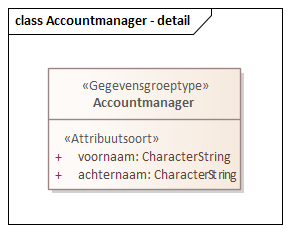
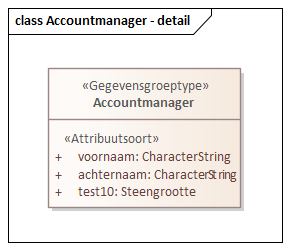
MIMCM-Bakstenenconceptueelmodel-1.0.0-2-20130318-20261017-173205

diff --git a/data/SAMPLE-cat.respec.full.html b/data/SAMPLE-cat.respec.full.html
@@ -17,7 +17,7 @@
                             Status van dit document ...HIER INVOEGEN
                         </p></section><section id="prologue" class="informative" level="1"><h1>Proloog</h1><p>
                             Introductie ...HIER INVOEGEN
-                        </p></section><section id="cat" class="normative"><h2>Gegevensdefinitie</h2><!--MIMCM-Bakstenenconceptueelmodel-1.0.0-2-20130318-20261017-172123 imvertor Nightly-build.0--><section id="global_packages"><h3>Model   Bakstenen conceptueel model</h3><section id="EAID_08513AA0_8A50_46c1_AD86_9B80D9A6AAE1"><h4>   Model 3 - overzicht</h4><div class="imageinfo overview"><figure class="uml-diagram"><img id="img-EAID_08513AA0_8A50_46c1_AD86_9B80D9A6AAE1" src="data/Images/EAID_08513AA0_8A50_46c1_AD86_9B80D9A6AAE1.png" usemap="#imagemap-EAID_08513AA0_8A50_46c1_AD86_9B80D9A6AAE1" alt="Diagram: Uitleg van dit diagram &#34;Model 3&#34;."><figcaption> ‒ Diagram: Model 3</figcaption></figure><map name="imagemap-EAID_08513AA0_8A50_46c1_AD86_9B80D9A6AAE1"><area shape="rect" alt="Accountmanager" coords="1101,395,1307,535" href="#global_class_Contract_Accountmanager"><area shape="rect" alt="ExterneProducent" coords="540,368,725,436" href="#global_class_Baksteenproductie_ExterneProducent"><area shape="rect" alt="Baksteen" coords="48,94,326,313" href="#global_class_Baksteenproductie_Baksteen"><area shape="rect" alt="Producent" coords="540,108,725,306" href="#global_class_Baksteenproductie_Producent"><area shape="rect" alt="Deal" coords="1088,94,1300,189" href="#global_class_Contract_Deal"><area shape="rect" alt="Contract" coords="1348,259,1532,341" href="#global_class_Contract_Contract"><area shape="rect" alt="Client" coords="828,231,1070,327" href="#global_class_Contract_Client"></map><p>
+                        </p></section><section id="cat" class="normative"><h2>Gegevensdefinitie</h2><!--MIMCM-Bakstenenconceptueelmodel-1.0.0-2-20130318-20261017-173205 imvertor Nightly-build.0--><section id="global_packages"><h3>Model   Bakstenen conceptueel model</h3><section id="EAID_08513AA0_8A50_46c1_AD86_9B80D9A6AAE1"><h4>   Model 3 - overzicht</h4><div class="imageinfo overview"><figure class="uml-diagram"><img id="img-EAID_08513AA0_8A50_46c1_AD86_9B80D9A6AAE1" src="data/Images/EAID_08513AA0_8A50_46c1_AD86_9B80D9A6AAE1.png" usemap="#imagemap-EAID_08513AA0_8A50_46c1_AD86_9B80D9A6AAE1" alt="Diagram: Uitleg van dit diagram &#34;Model 3&#34;."><figcaption> ‒ Diagram: Model 3</figcaption></figure><map name="imagemap-EAID_08513AA0_8A50_46c1_AD86_9B80D9A6AAE1"><area shape="rect" alt="Accountmanager" coords="1101,395,1307,535" href="#global_class_Contract_Accountmanager"><area shape="rect" alt="ExterneProducent" coords="540,368,725,436" href="#global_class_Baksteenproductie_ExterneProducent"><area shape="rect" alt="Baksteen" coords="48,94,326,313" href="#global_class_Baksteenproductie_Baksteen"><area shape="rect" alt="Producent" coords="540,108,725,306" href="#global_class_Baksteenproductie_Producent"><area shape="rect" alt="Deal" coords="1088,94,1300,189" href="#global_class_Contract_Deal"><area shape="rect" alt="Contract" coords="1348,259,1532,341" href="#global_class_Contract_Contract"><area shape="rect" alt="Client" coords="828,231,1070,327" href="#global_class_Contract_Client"></map><p>
                         <p>Uitleg van dit diagram "<i>Model 3</i>".</p>
                         <p></p>
                         <p></p>
@@ -73,7 +73,7 @@
                         </td></tr></tbody></table>
                
                <h6>Overzicht constraints  </h6>
-                  <table style="width: 100%;"><colgroup style="width: 30%;"></colgroup><colgroup style="width: 70%;"></colgroup><tbody><tr><th scope="col">Naam</th><th scope="col">Uitleg</th></tr><tr><th scope="row"><a class="link" href="#detail_d22351e2583">
+                  <table style="width: 100%;"><colgroup style="width: 30%;"></colgroup><colgroup style="width: 70%;"></colgroup><tbody><tr><th scope="col">Naam</th><th scope="col">Uitleg</th></tr><tr><th scope="row"><a class="link" href="#detail_d22785e2583">
                               baksteen-constraint
                            </a></th><td></td></tr></tbody></table>
                
@@ -280,7 +280,7 @@
                                     <p>De eerste producent is de maker die als eerste met de baksteen op de markt is gekomen, en de steen nog levert.</p>
                                  </td></tr><tr><th scope="row">Herkomst definitie</th><td> </td></tr><tr><th scope="row">Datum opname</th><td> </td></tr><tr><th scope="row">Gerelateerd objecttype</th><td><a class="link" href="#global_class_Baksteenproductie_Producent">Producent</a></td></tr><tr><th scope="row">Kardinaliteit</th><td>0 .. *</td></tr><tr><th scope="row">Indicatie kardinaliteit bron</th><td>1</td></tr><tr><th scope="row">Indicatie authentiek</th><td>  </td></tr><tr><th scope="row">Mogelijk geen waarde</th><td>Nee</td></tr></tbody></table>
                   </div>
-                  <div class="deepheader" id="detail_d22351e2583"><strong>Constraint details  <a href="#global_class_Baksteenproductie_Baksteen">Baksteen</a> baksteen-constraint</strong>
+                  <div class="deepheader" id="detail_d22785e2583"><strong>Constraint details  <a href="#global_class_Baksteenproductie_Baksteen">Baksteen</a> baksteen-constraint</strong>
                      <table style="width: 100%;"><colgroup style="width: 30%;"></colgroup><colgroup style="width: 70%;"></colgroup><tbody><tr><th scope="row">OCL</th><td>Constraint op objecttype Baksteen.</td></tr></tbody></table>
                   </div>
                </section>
@@ -372,7 +372,7 @@
                            <p>Identificatie van de client.</p>
                         </td><td>CHARACTERSTRING</td><td>1</td></tr><tr><td>contactIntern:</td><td>
                            <p>Interne persoon die betreffende client vertegenwoordigt.</p>
-                        </td><td><a class="link" href="#detail_class_Contract_Accountmanager">Accountmanager</a></td><td>1 .. *</td></tr><tr><td>- <a class="link" href="#detail_attribute_Contract_Accountmanager_voornaam">voornaam</a></td><td></td><td>CHARACTERSTRING</td><td>1</td></tr><tr><td>- <a class="link" href="#detail_attribute_Contract_Accountmanager_achternaam">achternaam</a></td><td></td><td>CHARACTERSTRING</td><td>1</td></tr><tr><td>- <a class="link" href="#detail_association_Contract_Accountmanager_adres2rol">adres2relatie</a></td><td></td><td><a class="link" href="#global_class_Contract_Adres">Adres</a></td><td>1</td></tr></tbody></table>
+                        </td><td><a class="link" href="#detail_class_Contract_Accountmanager">Accountmanager</a></td><td>1 .. *</td></tr><tr><td>- <a class="link" href="#detail_attribute_Contract_Accountmanager_voornaam">voornaam</a></td><td></td><td>CHARACTERSTRING</td><td>1</td></tr><tr><td>- <a class="link" href="#detail_attribute_Contract_Accountmanager_achternaam">achternaam</a></td><td></td><td>CHARACTERSTRING</td><td>1</td></tr><tr><td>- <a class="link" href="#detail_attribute_Contract_Accountmanager_test10">test10</a></td><td></td><td><a class="link" href="#global_class_Baksteenproductie_Steengrootte">Steengrootte</a></td><td>1</td></tr><tr><td>- <a class="link" href="#detail_association_Contract_Accountmanager_adres2rol">adres2relatie</a></td><td></td><td><a class="link" href="#global_class_Contract_Adres">Adres</a></td><td>1</td></tr></tbody></table>
                
                <h6>Overzicht relaties  </h6>
                   
@@ -393,7 +393,7 @@
                   <table style="width: 100%;"><colgroup style="width: 50%;"></colgroup><colgroup style="width: 50%;"></colgroup><tbody><tr><th scope="col">Rol naam met kardinaliteiten</th><th scope="col">Definitie</th></tr><tr><td>Contract [ 1 ] <a class="link" href="#detail_association_Contract_Contract_adres2rol">adres1relatie: adres2rol</a> <a class="link" href="#global_class_Contract_Adres">Adres</a> [ 1 ]</td><td></td></tr></tbody></table>
                
                <h6>Overzicht constraints  </h6>
-                  <table style="width: 100%;"><colgroup style="width: 30%;"></colgroup><colgroup style="width: 70%;"></colgroup><tbody><tr><th scope="col">Naam</th><th scope="col">Uitleg</th></tr><tr><th scope="row"><a class="link" href="#detail_d22351e6543">
+                  <table style="width: 100%;"><colgroup style="width: 30%;"></colgroup><colgroup style="width: 70%;"></colgroup><tbody><tr><th scope="col">Naam</th><th scope="col">Uitleg</th></tr><tr><th scope="row"><a class="link" href="#detail_d22785e6658">
                               constraint1
                            </a></th><td> commentaar </td></tr></tbody></table>
                
@@ -423,14 +423,14 @@
                         </td><td>DAY</td><td>1</td></tr></tbody></table>
                
                <h6>Overzicht constraints  </h6>
-                  <table style="width: 100%;"><colgroup style="width: 30%;"></colgroup><colgroup style="width: 70%;"></colgroup><tbody><tr><th scope="col">Naam</th><th scope="col">Uitleg</th></tr><tr><th scope="row"><a class="link" href="#detail_d22351e7087">
+                  <table style="width: 100%;"><colgroup style="width: 30%;"></colgroup><colgroup style="width: 70%;"></colgroup><tbody><tr><th scope="col">Naam</th><th scope="col">Uitleg</th></tr><tr><th scope="row"><a class="link" href="#detail_d22785e7202">
                               constraint-relatieklasse
                            </a></th><td></td></tr></tbody></table>
                
             </section>
          </section><section><h4>Gegevensgroeptypen   </h4>
             <section id="global_class_Contract_Accountmanager"><h5>Gegevensgroep   Accountmanager</h5>
-               <section id="EAID_3461FD3C_569C_42de_986E_D0665C7B8650"><h6>   Accountmanager - detail</h6><div class="imageinfo "><figure class="uml-diagram"><img id="img-EAID_3461FD3C_569C_42de_986E_D0665C7B8650" src="data/Images/EAID_3461FD3C_569C_42de_986E_D0665C7B8650.png" usemap="#imagemap-EAID_3461FD3C_569C_42de_986E_D0665C7B8650" alt="Diagram: Weergave van Accountmanager. Test voor één diacriet."><figcaption> ‒ Diagram: Accountmanager</figcaption></figure><map name="imagemap-EAID_3461FD3C_569C_42de_986E_D0665C7B8650"><area shape="rect" alt="Accountmanager" coords="48,68,241,190" href="#global_class_Contract_Accountmanager"></map><p>
+               <section id="EAID_3461FD3C_569C_42de_986E_D0665C7B8650"><h6>   Accountmanager - detail</h6><div class="imageinfo "><figure class="uml-diagram"><img id="img-EAID_3461FD3C_569C_42de_986E_D0665C7B8650" src="data/Images/EAID_3461FD3C_569C_42de_986E_D0665C7B8650.png" usemap="#imagemap-EAID_3461FD3C_569C_42de_986E_D0665C7B8650" alt="Diagram: Weergave van Accountmanager. Test voor één diacriet."><figcaption> ‒ Diagram: Accountmanager</figcaption></figure><map name="imagemap-EAID_3461FD3C_569C_42de_986E_D0665C7B8650"><area shape="rect" alt="Accountmanager" coords="48,68,241,208" href="#global_class_Contract_Accountmanager"></map><p>
                               <p>Weergave van Accountmanager. Test voor één diacriet.</p>
                               <p></p>
                            </p></div></section>
@@ -442,14 +442,14 @@
                               <p>Dit is de toelichting voor accountmanager.</p>
                            </td></tr></tbody></table>
                <h6>Overzicht attributen  </h6>
-                  <table style="width: 100%;"><colgroup style="width: 30%;"></colgroup><colgroup style="width: 50%;"></colgroup><colgroup style="width: 10%;"></colgroup><colgroup style="width: 10%;"></colgroup><tbody><tr><th scope="col">Attribuutnaam</th><th scope="col">Definitie</th><th scope="col">Formaat</th><th scope="col">Card</th></tr><tr><td><a class="link" href="#detail_attribute_Contract_Accountmanager_voornaam">voornaam</a></td><td></td><td>CHARACTERSTRING</td><td>1</td></tr><tr><td><a class="link" href="#detail_attribute_Contract_Accountmanager_achternaam">achternaam</a></td><td></td><td>CHARACTERSTRING</td><td>1</td></tr></tbody></table>
+                  <table style="width: 100%;"><colgroup style="width: 30%;"></colgroup><colgroup style="width: 50%;"></colgroup><colgroup style="width: 10%;"></colgroup><colgroup style="width: 10%;"></colgroup><tbody><tr><th scope="col">Attribuutnaam</th><th scope="col">Definitie</th><th scope="col">Formaat</th><th scope="col">Card</th></tr><tr><td><a class="link" href="#detail_attribute_Contract_Accountmanager_voornaam">voornaam</a></td><td></td><td>CHARACTERSTRING</td><td>1</td></tr><tr><td><a class="link" href="#detail_attribute_Contract_Accountmanager_achternaam">achternaam</a></td><td></td><td>CHARACTERSTRING</td><td>1</td></tr><tr><td><a class="link" href="#detail_attribute_Contract_Accountmanager_test10">test10</a></td><td></td><td><a class="link" href="#detail_class_Baksteenproductie_Steengrootte">Steengrootte</a></td><td>1</td></tr></tbody></table>
                
                <h6>Overzicht relaties  </h6>
                   
                   <table style="width: 100%;"><colgroup style="width: 50%;"></colgroup><colgroup style="width: 50%;"></colgroup><tbody><tr><th scope="col">Rol naam met kardinaliteiten</th><th scope="col">Definitie</th></tr><tr><td>Accountmanager [ 1 ] <a class="link" href="#detail_association_Contract_Accountmanager_adres2rol">adres2relatie: adres2rol</a> <a class="link" href="#global_class_Contract_Adres">Adres</a> [ 1 ]</td><td></td></tr></tbody></table>
                
                <h6>Overzicht constraints  </h6>
-                  <table style="width: 100%;"><colgroup style="width: 30%;"></colgroup><colgroup style="width: 70%;"></colgroup><tbody><tr><th scope="col">Naam</th><th scope="col">Uitleg</th></tr><tr><th scope="row"><a class="link" href="#detail_d22351e5644">
+                  <table style="width: 100%;"><colgroup style="width: 30%;"></colgroup><colgroup style="width: 70%;"></colgroup><tbody><tr><th scope="col">Naam</th><th scope="col">Uitleg</th></tr><tr><th scope="row"><a class="link" href="#detail_d22785e5759">
                               Gegevensgroeptype-constraint
                            </a></th><td></td></tr></tbody></table>
                
@@ -477,7 +477,7 @@
                      
                      <table style="width: 100%;"><colgroup style="width: 30%;"></colgroup><colgroup style="width: 70%;"></colgroup><tbody><tr><th scope="row">Naam</th><td>adres1relatie</td></tr><tr><th scope="row">Herkomst</th><td> </td></tr><tr><th scope="row">Definitie</th><td> </td></tr><tr><th scope="row">Herkomst definitie</th><td> </td></tr><tr><th scope="row">Datum opname</th><td> </td></tr><tr><th scope="row">Gerelateerd objecttype</th><td><a class="link" href="#global_class_Contract_Adres">Adres</a></td></tr><tr><th scope="row">Kardinaliteit</th><td>1</td></tr><tr><th scope="row">Indicatie kardinaliteit bron</th><td>1</td></tr><tr><th scope="row">Indicatie authentiek</th><td>Authentiek</td></tr><tr><th scope="row">Mogelijk geen waarde</th><td>Nee</td></tr></tbody></table>
                   </div>
-                  <div class="deepheader" id="detail_d22351e6543"><strong>Constraint details  <a href="#global_class_Contract_Contract">Contract</a> constraint1</strong>
+                  <div class="deepheader" id="detail_d22785e6658"><strong>Constraint details  <a href="#global_class_Contract_Contract">Contract</a> constraint1</strong>
                      <table style="width: 100%;"><colgroup style="width: 30%;"></colgroup><colgroup style="width: 70%;"></colgroup><tbody><tr><th scope="row">Natuurlijke taal</th><td> commentaar </td></tr><tr><th scope="row">OCL</th><td> OCL of beschrijving van constraint1</td></tr></tbody></table>
                   </div>
                </section>
@@ -495,11 +495,14 @@
                   <div class="deepheader" id="detail_attribute_Contract_Accountmanager_achternaam"><strong>Attribuutsoort details  <a href="#global_class_Contract_Accountmanager">Accountmanager</a> achternaam</strong>
                      <table style="width: 100%;"><colgroup style="width: 30%;"></colgroup><colgroup style="width: 70%;"></colgroup><tbody><tr><th scope="row">Naam</th><td>achternaam</td></tr><tr><th scope="row">Alias</th><td>lastname</td></tr><tr><th scope="row">Herkomst</th><td> </td></tr><tr><th scope="row">Definitie</th><td> </td></tr><tr><th scope="row">Herkomst definitie</th><td> </td></tr><tr><th scope="row">Datum opname</th><td> </td></tr><tr><th scope="row">Formaat</th><td>CHARACTERSTRING</td></tr><tr><th scope="row">Kardinaliteit</th><td>1</td></tr><tr><th scope="row">Indicatie authentiek</th><td>  </td></tr><tr><th scope="row">Indicatie afleidbaar</th><td>Zie package</td></tr><tr><th scope="row">Indicatie classificerend</th><td> </td></tr><tr><th scope="row">Mogelijk geen waarde</th><td>Nee</td></tr><tr><th scope="row">Indicatie identificerend</th><td>Nee</td></tr></tbody></table>
                   </div>
+                  <div class="deepheader" id="detail_attribute_Contract_Accountmanager_test10"><strong>Attribuutsoort details  <a href="#global_class_Contract_Accountmanager">Accountmanager</a> test10</strong>
+                     <table style="width: 100%;"><colgroup style="width: 30%;"></colgroup><colgroup style="width: 70%;"></colgroup><tbody><tr><th scope="row">Naam</th><td>test10</td></tr><tr><th scope="row">Herkomst</th><td> </td></tr><tr><th scope="row">Definitie</th><td> </td></tr><tr><th scope="row">Herkomst definitie</th><td> </td></tr><tr><th scope="row">Datum opname</th><td> </td></tr><tr><th scope="row">Formaat</th><td><a class="link" href="#detail_class_Baksteenproductie_Steengrootte">Steengrootte</a></td></tr><tr><th scope="row">Kardinaliteit</th><td>1</td></tr><tr><th scope="row">Indicatie authentiek</th><td>Authentiek</td></tr><tr><th scope="row">Indicatie afleidbaar</th><td>Zie package</td></tr><tr><th scope="row">Indicatie classificerend</th><td>Nee</td></tr><tr><th scope="row">Mogelijk geen waarde</th><td>Nee</td></tr><tr><th scope="row">Indicatie identificerend</th><td>Nee</td></tr></tbody></table>
+                  </div>
                   <div class="deepheader" id="detail_association_Contract_Accountmanager_adres2rol"><strong>Relatierol details  <a href="#global_class_Contract_Accountmanager">Accountmanager</a> adres2relatie</strong>
                      
                      <table style="width: 100%;"><colgroup style="width: 30%;"></colgroup><colgroup style="width: 70%;"></colgroup><tbody><tr><th scope="row">Naam</th><td>adres2relatie</td></tr><tr><th scope="row">Herkomst</th><td> </td></tr><tr><th scope="row">Definitie</th><td> </td></tr><tr><th scope="row">Herkomst definitie</th><td> </td></tr><tr><th scope="row">Datum opname</th><td> </td></tr><tr><th scope="row">Gerelateerd objecttype</th><td><a class="link" href="#global_class_Contract_Adres">Adres</a></td></tr><tr><th scope="row">Kardinaliteit</th><td>1</td></tr><tr><th scope="row">Indicatie kardinaliteit bron</th><td>1</td></tr><tr><th scope="row">Indicatie authentiek</th><td>Authentiek</td></tr><tr><th scope="row">Mogelijk geen waarde</th><td>Nee</td></tr></tbody></table>
                   </div>
-                  <div class="deepheader" id="detail_d22351e5644"><strong>Constraint details  <a href="#global_class_Contract_Accountmanager">Accountmanager</a> Gegevensgroeptype-constraint</strong>
+                  <div class="deepheader" id="detail_d22785e5759"><strong>Constraint details  <a href="#global_class_Contract_Accountmanager">Accountmanager</a> Gegevensgroeptype-constraint</strong>
                      <table style="width: 100%;"><colgroup style="width: 30%;"></colgroup><colgroup style="width: 70%;"></colgroup><tbody><tr><th scope="row">OCL</th><td>Constraint op gegevesngroeptype Accountmanager.</td></tr></tbody></table>
                   </div>
                </section>
@@ -526,7 +529,7 @@
                                     <p>De eerstvolgende dag dat voor de client een feest is.</p>
                                  </td></tr><tr><th scope="row">Herkomst definitie</th><td> </td></tr><tr><th scope="row">Datum opname</th><td> </td></tr><tr><th scope="row">Formaat</th><td>DAY</td></tr><tr><th scope="row">Patroon</th><td>De verzameling van waarden die gegevens van deze attribuutsoort kunnen hebben (bereik)  danwel moeten voldoen aan een specifiek patroon.</td></tr><tr><th scope="row">Kardinaliteit</th><td>1</td></tr><tr><th scope="row">Indicatie authentiek</th><td>  </td></tr><tr><th scope="row">Toelichting</th><td>Een inhoudelijke toelichting op de attribuutsoort.</td></tr><tr><th scope="row">Indicatie afleidbaar</th><td>Zie package</td></tr><tr><th scope="row">Indicatie classificerend</th><td> </td></tr><tr><th scope="row">Mogelijk geen waarde</th><td>Nee</td></tr><tr><th scope="row">Indicatie identificerend</th><td>Nee</td></tr></tbody></table>
                   </div>
-                  <div class="deepheader" id="detail_d22351e7087"><strong>Constraint details  <a href="#global_class_Contract_Deal">Deal</a> constraint-relatieklasse</strong>
+                  <div class="deepheader" id="detail_d22785e7202"><strong>Constraint details  <a href="#global_class_Contract_Deal">Deal</a> constraint-relatieklasse</strong>
                      <table style="width: 100%;"><colgroup style="width: 30%;"></colgroup><colgroup style="width: 70%;"></colgroup><tbody><tr><th scope="row">OCL</th><td>Constraint op relatieklasse Deal.</td></tr></tbody></table>
                   </div>
                </section>
@@ -534,7 +537,7 @@
             
             
             
-         </section></section></section><section id="lis" class="normative"><h2>Inhoud van waardelijsten</h2><!--MIMCM-Bakstenenconceptueelmodel-1.0.0-2-20130318-20261017-172123 imvertor Nightly-build.0--><section><h3>Referentielijst inhoud   </h3><section id="detail_class_Baksteenproductie_Baksteentype"><h4>Referentielijst  Baksteentype</h4>
+         </section></section></section><section id="lis" class="normative"><h2>Inhoud van waardelijsten</h2><!--MIMCM-Bakstenenconceptueelmodel-1.0.0-2-20130318-20261017-173205 imvertor Nightly-build.0--><section><h3>Referentielijst inhoud   </h3><section id="detail_class_Baksteenproductie_Baksteentype"><h4>Referentielijst  Baksteentype</h4>
             <table style="width: 100%;" class="list"><colgroup></colgroup><tbody><tr><td>
                         <p>Type van baksteen.</p>
                       

diff --git a/data/SAMPLE-cat.respec.html b/data/SAMPLE-cat.respec.html
@@ -1,4 +1,4 @@
-<!DOCTYPE HTML><section id="cat" class="normative"><h2>Gegevensdefinitie</h2><!--MIMCM-Bakstenenconceptueelmodel-1.0.0-2-20130318-20261017-172123 imvertor Nightly-build.0--><section id="global_packages"><h3>Model   Bakstenen conceptueel model</h3><section id="EAID_08513AA0_8A50_46c1_AD86_9B80D9A6AAE1"><h4>   Model 3 - overzicht</h4><div class="imageinfo overview"><figure class="uml-diagram"><img id="img-EAID_08513AA0_8A50_46c1_AD86_9B80D9A6AAE1" src="data/Images/EAID_08513AA0_8A50_46c1_AD86_9B80D9A6AAE1.png" usemap="#imagemap-EAID_08513AA0_8A50_46c1_AD86_9B80D9A6AAE1" alt="Diagram: Uitleg van dit diagram &#34;Model 3&#34;."><figcaption> ‒ Diagram: Model 3</figcaption></figure><map name="imagemap-EAID_08513AA0_8A50_46c1_AD86_9B80D9A6AAE1"><area shape="rect" alt="Accountmanager" coords="1101,395,1307,535" href="#global_class_Contract_Accountmanager"><area shape="rect" alt="ExterneProducent" coords="540,368,725,436" href="#global_class_Baksteenproductie_ExterneProducent"><area shape="rect" alt="Baksteen" coords="48,94,326,313" href="#global_class_Baksteenproductie_Baksteen"><area shape="rect" alt="Producent" coords="540,108,725,306" href="#global_class_Baksteenproductie_Producent"><area shape="rect" alt="Deal" coords="1088,94,1300,189" href="#global_class_Contract_Deal"><area shape="rect" alt="Contract" coords="1348,259,1532,341" href="#global_class_Contract_Contract"><area shape="rect" alt="Client" coords="828,231,1070,327" href="#global_class_Contract_Client"></map><p>
+<!DOCTYPE HTML><section id="cat" class="normative"><h2>Gegevensdefinitie</h2><!--MIMCM-Bakstenenconceptueelmodel-1.0.0-2-20130318-20261017-173205 imvertor Nightly-build.0--><section id="global_packages"><h3>Model   Bakstenen conceptueel model</h3><section id="EAID_08513AA0_8A50_46c1_AD86_9B80D9A6AAE1"><h4>   Model 3 - overzicht</h4><div class="imageinfo overview"><figure class="uml-diagram"><img id="img-EAID_08513AA0_8A50_46c1_AD86_9B80D9A6AAE1" src="data/Images/EAID_08513AA0_8A50_46c1_AD86_9B80D9A6AAE1.png" usemap="#imagemap-EAID_08513AA0_8A50_46c1_AD86_9B80D9A6AAE1" alt="Diagram: Uitleg van dit diagram &#34;Model 3&#34;."><figcaption> ‒ Diagram: Model 3</figcaption></figure><map name="imagemap-EAID_08513AA0_8A50_46c1_AD86_9B80D9A6AAE1"><area shape="rect" alt="Accountmanager" coords="1101,395,1307,535" href="#global_class_Contract_Accountmanager"><area shape="rect" alt="ExterneProducent" coords="540,368,725,436" href="#global_class_Baksteenproductie_ExterneProducent"><area shape="rect" alt="Baksteen" coords="48,94,326,313" href="#global_class_Baksteenproductie_Baksteen"><area shape="rect" alt="Producent" coords="540,108,725,306" href="#global_class_Baksteenproductie_Producent"><area shape="rect" alt="Deal" coords="1088,94,1300,189" href="#global_class_Contract_Deal"><area shape="rect" alt="Contract" coords="1348,259,1532,341" href="#global_class_Contract_Contract"><area shape="rect" alt="Client" coords="828,231,1070,327" href="#global_class_Contract_Client"></map><p>
                         <p>Uitleg van dit diagram "<i>Model 3</i>".</p>
                         <p></p>
                         <p></p>
@@ -54,7 +54,7 @@
                         </td></tr></tbody></table>
                
                <h6>Overzicht constraints  </h6>
-                  <table style="width: 100%;"><colgroup style="width: 30%;"></colgroup><colgroup style="width: 70%;"></colgroup><tbody><tr><th scope="col">Naam</th><th scope="col">Uitleg</th></tr><tr><th scope="row"><a class="link" href="#detail_d22351e2583">
+                  <table style="width: 100%;"><colgroup style="width: 30%;"></colgroup><colgroup style="width: 70%;"></colgroup><tbody><tr><th scope="col">Naam</th><th scope="col">Uitleg</th></tr><tr><th scope="row"><a class="link" href="#detail_d22785e2583">
                               baksteen-constraint
                            </a></th><td></td></tr></tbody></table>
                
@@ -261,7 +261,7 @@
                                     <p>De eerste producent is de maker die als eerste met de baksteen op de markt is gekomen, en de steen nog levert.</p>
                                  </td></tr><tr><th scope="row">Herkomst definitie</th><td> </td></tr><tr><th scope="row">Datum opname</th><td> </td></tr><tr><th scope="row">Gerelateerd objecttype</th><td><a class="link" href="#global_class_Baksteenproductie_Producent">Producent</a></td></tr><tr><th scope="row">Kardinaliteit</th><td>0 .. *</td></tr><tr><th scope="row">Indicatie kardinaliteit bron</th><td>1</td></tr><tr><th scope="row">Indicatie authentiek</th><td>  </td></tr><tr><th scope="row">Mogelijk geen waarde</th><td>Nee</td></tr></tbody></table>
                   </div>
-                  <div class="deepheader" id="detail_d22351e2583"><strong>Constraint details  <a href="#global_class_Baksteenproductie_Baksteen">Baksteen</a> baksteen-constraint</strong>
+                  <div class="deepheader" id="detail_d22785e2583"><strong>Constraint details  <a href="#global_class_Baksteenproductie_Baksteen">Baksteen</a> baksteen-constraint</strong>
                      <table style="width: 100%;"><colgroup style="width: 30%;"></colgroup><colgroup style="width: 70%;"></colgroup><tbody><tr><th scope="row">OCL</th><td>Constraint op objecttype Baksteen.</td></tr></tbody></table>
                   </div>
                </section>
@@ -353,7 +353,7 @@
                            <p>Identificatie van de client.</p>
                         </td><td>CHARACTERSTRING</td><td>1</td></tr><tr><td>contactIntern:</td><td>
                            <p>Interne persoon die betreffende client vertegenwoordigt.</p>
-                        </td><td><a class="link" href="#detail_class_Contract_Accountmanager">Accountmanager</a></td><td>1 .. *</td></tr><tr><td>- <a class="link" href="#detail_attribute_Contract_Accountmanager_voornaam">voornaam</a></td><td></td><td>CHARACTERSTRING</td><td>1</td></tr><tr><td>- <a class="link" href="#detail_attribute_Contract_Accountmanager_achternaam">achternaam</a></td><td></td><td>CHARACTERSTRING</td><td>1</td></tr><tr><td>- <a class="link" href="#detail_association_Contract_Accountmanager_adres2rol">adres2relatie</a></td><td></td><td><a class="link" href="#global_class_Contract_Adres">Adres</a></td><td>1</td></tr></tbody></table>
+                        </td><td><a class="link" href="#detail_class_Contract_Accountmanager">Accountmanager</a></td><td>1 .. *</td></tr><tr><td>- <a class="link" href="#detail_attribute_Contract_Accountmanager_voornaam">voornaam</a></td><td></td><td>CHARACTERSTRING</td><td>1</td></tr><tr><td>- <a class="link" href="#detail_attribute_Contract_Accountmanager_achternaam">achternaam</a></td><td></td><td>CHARACTERSTRING</td><td>1</td></tr><tr><td>- <a class="link" href="#detail_attribute_Contract_Accountmanager_test10">test10</a></td><td></td><td><a class="link" href="#global_class_Baksteenproductie_Steengrootte">Steengrootte</a></td><td>1</td></tr><tr><td>- <a class="link" href="#detail_association_Contract_Accountmanager_adres2rol">adres2relatie</a></td><td></td><td><a class="link" href="#global_class_Contract_Adres">Adres</a></td><td>1</td></tr></tbody></table>
                
                <h6>Overzicht relaties  </h6>
                   
@@ -374,7 +374,7 @@
                   <table style="width: 100%;"><colgroup style="width: 50%;"></colgroup><colgroup style="width: 50%;"></colgroup><tbody><tr><th scope="col">Rol naam met kardinaliteiten</th><th scope="col">Definitie</th></tr><tr><td>Contract [ 1 ] <a class="link" href="#detail_association_Contract_Contract_adres2rol">adres1relatie: adres2rol</a> <a class="link" href="#global_class_Contract_Adres">Adres</a> [ 1 ]</td><td></td></tr></tbody></table>
                
                <h6>Overzicht constraints  </h6>
-                  <table style="width: 100%;"><colgroup style="width: 30%;"></colgroup><colgroup style="width: 70%;"></colgroup><tbody><tr><th scope="col">Naam</th><th scope="col">Uitleg</th></tr><tr><th scope="row"><a class="link" href="#detail_d22351e6543">
+                  <table style="width: 100%;"><colgroup style="width: 30%;"></colgroup><colgroup style="width: 70%;"></colgroup><tbody><tr><th scope="col">Naam</th><th scope="col">Uitleg</th></tr><tr><th scope="row"><a class="link" href="#detail_d22785e6658">
                               constraint1
                            </a></th><td> commentaar </td></tr></tbody></table>
                
@@ -404,14 +404,14 @@
                         </td><td>DAY</td><td>1</td></tr></tbody></table>
                
                <h6>Overzicht constraints  </h6>
-                  <table style="width: 100%;"><colgroup style="width: 30%;"></colgroup><colgroup style="width: 70%;"></colgroup><tbody><tr><th scope="col">Naam</th><th scope="col">Uitleg</th></tr><tr><th scope="row"><a class="link" href="#detail_d22351e7087">
+                  <table style="width: 100%;"><colgroup style="width: 30%;"></colgroup><colgroup style="width: 70%;"></colgroup><tbody><tr><th scope="col">Naam</th><th scope="col">Uitleg</th></tr><tr><th scope="row"><a class="link" href="#detail_d22785e7202">
                               constraint-relatieklasse
                            </a></th><td></td></tr></tbody></table>
                
             </section>
          </section><section><h4>Gegevensgroeptypen   </h4>
             <section id="global_class_Contract_Accountmanager"><h5>Gegevensgroep   Accountmanager</h5>
-               <section id="EAID_3461FD3C_569C_42de_986E_D0665C7B8650"><h6>   Accountmanager - detail</h6><div class="imageinfo "><figure class="uml-diagram"><img id="img-EAID_3461FD3C_569C_42de_986E_D0665C7B8650" src="data/Images/EAID_3461FD3C_569C_42de_986E_D0665C7B8650.png" usemap="#imagemap-EAID_3461FD3C_569C_42de_986E_D0665C7B8650" alt="Diagram: Weergave van Accountmanager. Test voor één diacriet."><figcaption> ‒ Diagram: Accountmanager</figcaption></figure><map name="imagemap-EAID_3461FD3C_569C_42de_986E_D0665C7B8650"><area shape="rect" alt="Accountmanager" coords="48,68,241,190" href="#global_class_Contract_Accountmanager"></map><p>
+               <section id="EAID_3461FD3C_569C_42de_986E_D0665C7B8650"><h6>   Accountmanager - detail</h6><div class="imageinfo "><figure class="uml-diagram"><img id="img-EAID_3461FD3C_569C_42de_986E_D0665C7B8650" src="data/Images/EAID_3461FD3C_569C_42de_986E_D0665C7B8650.png" usemap="#imagemap-EAID_3461FD3C_569C_42de_986E_D0665C7B8650" alt="Diagram: Weergave van Accountmanager. Test voor één diacriet."><figcaption> ‒ Diagram: Accountmanager</figcaption></figure><map name="imagemap-EAID_3461FD3C_569C_42de_986E_D0665C7B8650"><area shape="rect" alt="Accountmanager" coords="48,68,241,208" href="#global_class_Contract_Accountmanager"></map><p>
                               <p>Weergave van Accountmanager. Test voor één diacriet.</p>
                               <p></p>
                            </p></div></section>
@@ -423,14 +423,14 @@
                               <p>Dit is de toelichting voor accountmanager.</p>
                            </td></tr></tbody></table>
                <h6>Overzicht attributen  </h6>
-                  <table style="width: 100%;"><colgroup style="width: 30%;"></colgroup><colgroup style="width: 50%;"></colgroup><colgroup style="width: 10%;"></colgroup><colgroup style="width: 10%;"></colgroup><tbody><tr><th scope="col">Attribuutnaam</th><th scope="col">Definitie</th><th scope="col">Formaat</th><th scope="col">Card</th></tr><tr><td><a class="link" href="#detail_attribute_Contract_Accountmanager_voornaam">voornaam</a></td><td></td><td>CHARACTERSTRING</td><td>1</td></tr><tr><td><a class="link" href="#detail_attribute_Contract_Accountmanager_achternaam">achternaam</a></td><td></td><td>CHARACTERSTRING</td><td>1</td></tr></tbody></table>
+                  <table style="width: 100%;"><colgroup style="width: 30%;"></colgroup><colgroup style="width: 50%;"></colgroup><colgroup style="width: 10%;"></colgroup><colgroup style="width: 10%;"></colgroup><tbody><tr><th scope="col">Attribuutnaam</th><th scope="col">Definitie</th><th scope="col">Formaat</th><th scope="col">Card</th></tr><tr><td><a class="link" href="#detail_attribute_Contract_Accountmanager_voornaam">voornaam</a></td><td></td><td>CHARACTERSTRING</td><td>1</td></tr><tr><td><a class="link" href="#detail_attribute_Contract_Accountmanager_achternaam">achternaam</a></td><td></td><td>CHARACTERSTRING</td><td>1</td></tr><tr><td><a class="link" href="#detail_attribute_Contract_Accountmanager_test10">test10</a></td><td></td><td><a class="link" href="#detail_class_Baksteenproductie_Steengrootte">Steengrootte</a></td><td>1</td></tr></tbody></table>
                
                <h6>Overzicht relaties  </h6>
                   
                   <table style="width: 100%;"><colgroup style="width: 50%;"></colgroup><colgroup style="width: 50%;"></colgroup><tbody><tr><th scope="col">Rol naam met kardinaliteiten</th><th scope="col">Definitie</th></tr><tr><td>Accountmanager [ 1 ] <a class="link" href="#detail_association_Contract_Accountmanager_adres2rol">adres2relatie: adres2rol</a> <a class="link" href="#global_class_Contract_Adres">Adres</a> [ 1 ]</td><td></td></tr></tbody></table>
                
                <h6>Overzicht constraints  </h6>
-                  <table style="width: 100%;"><colgroup style="width: 30%;"></colgroup><colgroup style="width: 70%;"></colgroup><tbody><tr><th scope="col">Naam</th><th scope="col">Uitleg</th></tr><tr><th scope="row"><a class="link" href="#detail_d22351e5644">
+                  <table style="width: 100%;"><colgroup style="width: 30%;"></colgroup><colgroup style="width: 70%;"></colgroup><tbody><tr><th scope="col">Naam</th><th scope="col">Uitleg</th></tr><tr><th scope="row"><a class="link" href="#detail_d22785e5759">
                               Gegevensgroeptype-constraint
                            </a></th><td></td></tr></tbody></table>
                
@@ -458,7 +458,7 @@
                      
                      <table style="width: 100%;"><colgroup style="width: 30%;"></colgroup><colgroup style="width: 70%;"></colgroup><tbody><tr><th scope="row">Naam</th><td>adres1relatie</td></tr><tr><th scope="row">Herkomst</th><td> </td></tr><tr><th scope="row">Definitie</th><td> </td></tr><tr><th scope="row">Herkomst definitie</th><td> </td></tr><tr><th scope="row">Datum opname</th><td> </td></tr><tr><th scope="row">Gerelateerd objecttype</th><td><a class="link" href="#global_class_Contract_Adres">Adres</a></td></tr><tr><th scope="row">Kardinaliteit</th><td>1</td></tr><tr><th scope="row">Indicatie kardinaliteit bron</th><td>1</td></tr><tr><th scope="row">Indicatie authentiek</th><td>Authentiek</td></tr><tr><th scope="row">Mogelijk geen waarde</th><td>Nee</td></tr></tbody></table>
                   </div>
-                  <div class="deepheader" id="detail_d22351e6543"><strong>Constraint details  <a href="#global_class_Contract_Contract">Contract</a> constraint1</strong>
+                  <div class="deepheader" id="detail_d22785e6658"><strong>Constraint details  <a href="#global_class_Contract_Contract">Contract</a> constraint1</strong>
                      <table style="width: 100%;"><colgroup style="width: 30%;"></colgroup><colgroup style="width: 70%;"></colgroup><tbody><tr><th scope="row">Natuurlijke taal</th><td> commentaar </td></tr><tr><th scope="row">OCL</th><td> OCL of beschrijving van constraint1</td></tr></tbody></table>
                   </div>
                </section>
@@ -476,11 +476,14 @@
                   <div class="deepheader" id="detail_attribute_Contract_Accountmanager_achternaam"><strong>Attribuutsoort details  <a href="#global_class_Contract_Accountmanager">Accountmanager</a> achternaam</strong>
                      <table style="width: 100%;"><colgroup style="width: 30%;"></colgroup><colgroup style="width: 70%;"></colgroup><tbody><tr><th scope="row">Naam</th><td>achternaam</td></tr><tr><th scope="row">Alias</th><td>lastname</td></tr><tr><th scope="row">Herkomst</th><td> </td></tr><tr><th scope="row">Definitie</th><td> </td></tr><tr><th scope="row">Herkomst definitie</th><td> </td></tr><tr><th scope="row">Datum opname</th><td> </td></tr><tr><th scope="row">Formaat</th><td>CHARACTERSTRING</td></tr><tr><th scope="row">Kardinaliteit</th><td>1</td></tr><tr><th scope="row">Indicatie authentiek</th><td>  </td></tr><tr><th scope="row">Indicatie afleidbaar</th><td>Zie package</td></tr><tr><th scope="row">Indicatie classificerend</th><td> </td></tr><tr><th scope="row">Mogelijk geen waarde</th><td>Nee</td></tr><tr><th scope="row">Indicatie identificerend</th><td>Nee</td></tr></tbody></table>
                   </div>
+                  <div class="deepheader" id="detail_attribute_Contract_Accountmanager_test10"><strong>Attribuutsoort details  <a href="#global_class_Contract_Accountmanager">Accountmanager</a> test10</strong>
+                     <table style="width: 100%;"><colgroup style="width: 30%;"></colgroup><colgroup style="width: 70%;"></colgroup><tbody><tr><th scope="row">Naam</th><td>test10</td></tr><tr><th scope="row">Herkomst</th><td> </td></tr><tr><th scope="row">Definitie</th><td> </td></tr><tr><th scope="row">Herkomst definitie</th><td> </td></tr><tr><th scope="row">Datum opname</th><td> </td></tr><tr><th scope="row">Formaat</th><td><a class="link" href="#detail_class_Baksteenproductie_Steengrootte">Steengrootte</a></td></tr><tr><th scope="row">Kardinaliteit</th><td>1</td></tr><tr><th scope="row">Indicatie authentiek</th><td>Authentiek</td></tr><tr><th scope="row">Indicatie afleidbaar</th><td>Zie package</td></tr><tr><th scope="row">Indicatie classificerend</th><td>Nee</td></tr><tr><th scope="row">Mogelijk geen waarde</th><td>Nee</td></tr><tr><th scope="row">Indicatie identificerend</th><td>Nee</td></tr></tbody></table>
+                  </div>
                   <div class="deepheader" id="detail_association_Contract_Accountmanager_adres2rol"><strong>Relatierol details  <a href="#global_class_Contract_Accountmanager">Accountmanager</a> adres2relatie</strong>
                      
                      <table style="width: 100%;"><colgroup style="width: 30%;"></colgroup><colgroup style="width: 70%;"></colgroup><tbody><tr><th scope="row">Naam</th><td>adres2relatie</td></tr><tr><th scope="row">Herkomst</th><td> </td></tr><tr><th scope="row">Definitie</th><td> </td></tr><tr><th scope="row">Herkomst definitie</th><td> </td></tr><tr><th scope="row">Datum opname</th><td> </td></tr><tr><th scope="row">Gerelateerd objecttype</th><td><a class="link" href="#global_class_Contract_Adres">Adres</a></td></tr><tr><th scope="row">Kardinaliteit</th><td>1</td></tr><tr><th scope="row">Indicatie kardinaliteit bron</th><td>1</td></tr><tr><th scope="row">Indicatie authentiek</th><td>Authentiek</td></tr><tr><th scope="row">Mogelijk geen waarde</th><td>Nee</td></tr></tbody></table>
                   </div>
-                  <div class="deepheader" id="detail_d22351e5644"><strong>Constraint details  <a href="#global_class_Contract_Accountmanager">Accountmanager</a> Gegevensgroeptype-constraint</strong>
+                  <div class="deepheader" id="detail_d22785e5759"><strong>Constraint details  <a href="#global_class_Contract_Accountmanager">Accountmanager</a> Gegevensgroeptype-constraint</strong>
                      <table style="width: 100%;"><colgroup style="width: 30%;"></colgroup><colgroup style="width: 70%;"></colgroup><tbody><tr><th scope="row">OCL</th><td>Constraint op gegevesngroeptype Accountmanager.</td></tr></tbody></table>
                   </div>
                </section>
@@ -507,7 +510,7 @@
                                     <p>De eerstvolgende dag dat voor de client een feest is.</p>
                                  </td></tr><tr><th scope="row">Herkomst definitie</th><td> </td></tr><tr><th scope="row">Datum opname</th><td> </td></tr><tr><th scope="row">Formaat</th><td>DAY</td></tr><tr><th scope="row">Patroon</th><td>De verzameling van waarden die gegevens van deze attribuutsoort kunnen hebben (bereik)  danwel moeten voldoen aan een specifiek patroon.</td></tr><tr><th scope="row">Kardinaliteit</th><td>1</td></tr><tr><th scope="row">Indicatie authentiek</th><td>  </td></tr><tr><th scope="row">Toelichting</th><td>Een inhoudelijke toelichting op de attribuutsoort.</td></tr><tr><th scope="row">Indicatie afleidbaar</th><td>Zie package</td></tr><tr><th scope="row">Indicatie classificerend</th><td> </td></tr><tr><th scope="row">Mogelijk geen waarde</th><td>Nee</td></tr><tr><th scope="row">Indicatie identificerend</th><td>Nee</td></tr></tbody></table>
                   </div>
-                  <div class="deepheader" id="detail_d22351e7087"><strong>Constraint details  <a href="#global_class_Contract_Deal">Deal</a> constraint-relatieklasse</strong>
+                  <div class="deepheader" id="detail_d22785e7202"><strong>Constraint details  <a href="#global_class_Contract_Deal">Deal</a> constraint-relatieklasse</strong>
                      <table style="width: 100%;"><colgroup style="width: 30%;"></colgroup><colgroup style="width: 70%;"></colgroup><tbody><tr><th scope="row">OCL</th><td>Constraint op relatieklasse Deal.</td></tr></tbody></table>
                   </div>
                </section>
@@ -515,7 +518,7 @@
             
             
             
-         </section></section></section><section id="lis" class="normative"><h2>Inhoud van waardelijsten</h2><!--MIMCM-Bakstenenconceptueelmodel-1.0.0-2-20130318-20261017-172123 imvertor Nightly-build.0--><section><h3>Referentielijst inhoud   </h3><section id="detail_class_Baksteenproductie_Baksteentype"><h4>Referentielijst  Baksteentype</h4>
+         </section></section></section><section id="lis" class="normative"><h2>Inhoud van waardelijsten</h2><!--MIMCM-Bakstenenconceptueelmodel-1.0.0-2-20130318-20261017-173205 imvertor Nightly-build.0--><section><h3>Referentielijst inhoud   </h3><section id="detail_class_Baksteenproductie_Baksteentype"><h4>Referentielijst  Baksteentype</h4>
             <table style="width: 100%;" class="list"><colgroup></colgroup><tbody><tr><td>
                         <p>Type van baksteen.</p>
                       
